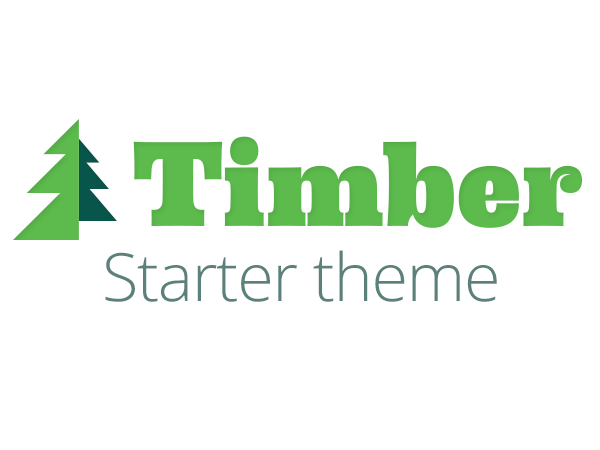
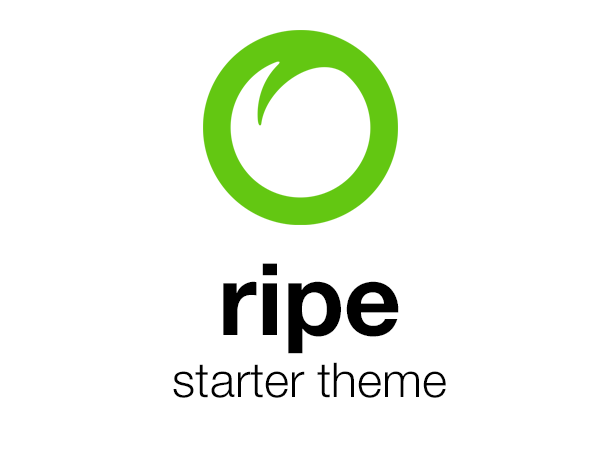
Update wp-meta with ripe branding / fix theme update message

Changed region(s): [[0.21, 0.0622, 0.99, 0.5289], [0.18, 0.56, 0.84, 0.9022], [0.03, 0.2489, 0.21, 0.56]]

diff --git a/src/wp-meta/style.css b/src/wp-meta/style.css
@@ -1,5 +1,5 @@
-/*
- * Theme Name: My Tteeme
- * Description: Starter Theme to use with Timber
- * Author: Upstatement and YOU!
+/*  Theme Name: Hello World
+	Description: Starter theme for Wordpress used by ripe studios
+  Version: 1000.0
+	Author: ripe
 */
